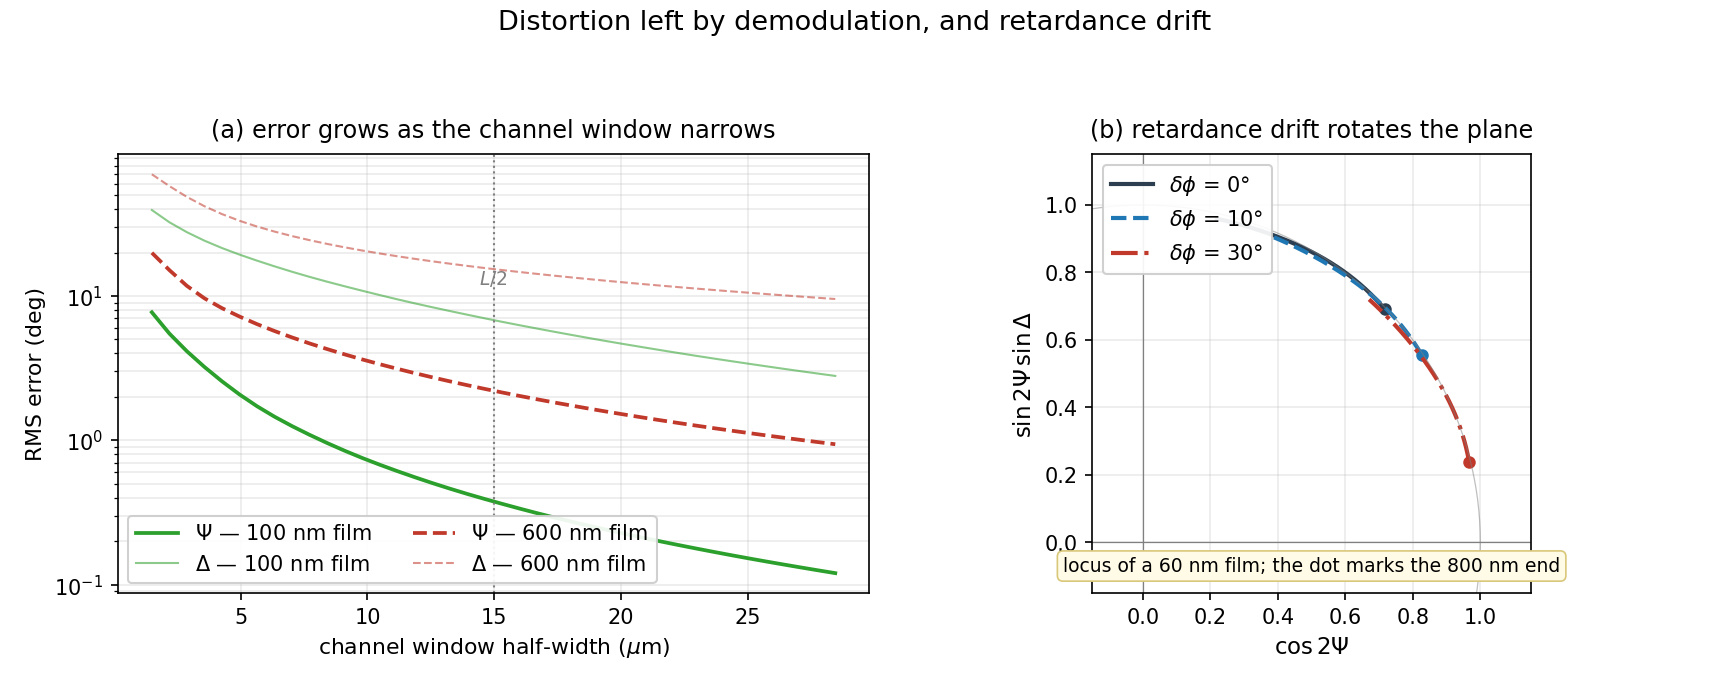
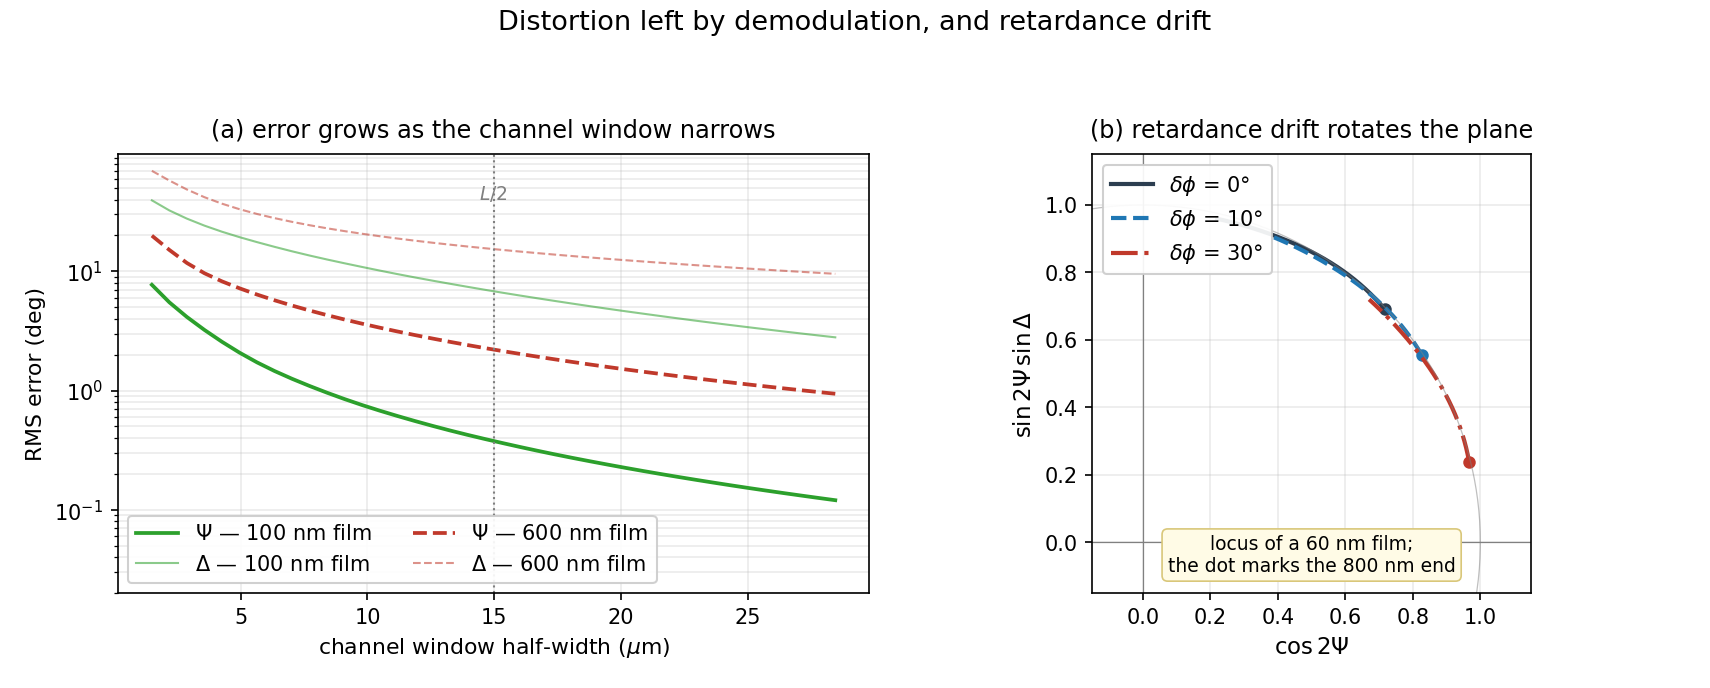
fix(post): ellipsometer-channeled-spectroscopic — 그림 다시 생성(범례·라벨 겹침, 그림 속 번호·캡션 제거)
그림을 다시 그려야 고칠 수 있던 경미 항목을 고쳤다. 데이터와 계산은 바꾸지 않았다.

근거: _references/ellipsometer-channeled-spectroscopic/audit-20261015.md (B 경미), 목록 _references/_fig-queue-20261015.md

diff --git a/_code/ellipsometer-channeled-spectroscopic/generate_figures.py b/_code/ellipsometer-channeled-spectroscopic/generate_figures.py
@@ -288,11 +288,12 @@ def figure5(L):
         ax1.semilogy(HALF, np.maximum(res[d][:, 1], 1e-4), ls, color=c, lw=1.0,
                      alpha=0.55, label=L["f5_del"].format(d))
     ax1.axvline(opd(T_RET) / 2, color="gray", lw=1.0, ls=":")
-    ax1.text(opd(T_RET) / 2, 12, L["f5_halfL"], fontsize=9.0, ha="center",
+    ax1.text(opd(T_RET) / 2, 40, L["f5_halfL"], fontsize=9.0, ha="center",
              color="gray", **L["font"])
     ax1.set_xlabel(L["f5_x"], fontsize=10.5, **L["font"])
     ax1.set_ylabel(L["f5_y"], fontsize=10.5, **L["font"])
     ax1.set_title(L["f5a"], fontsize=11.5, pad=8, **L["font"])
+    ax1.set_ylim(0.02, None)   # 범례가 들어갈 아래쪽 빈 칸을 둔다
     ax1.legend(fontsize=8.2, prop=L["legend"], loc="lower left", ncol=2,
                framealpha=0.92)
     ax1.grid(alpha=0.25, which="both")
@@ -369,7 +370,7 @@ LABELS = {
         "f4_c4": "지연자 4장\n뮬러 16요소",
         "f4_nch": "채널 {}",
         "f4_total": "분광기 전체 {:.0f} 점",
-        "f4_note": "400~1035 nm, 분해능 1.01 nm인 분광기 기준\n(Hagen 2022의 예)",
+        "f4_note": "400~1035 nm, 분해능 1.01 nm인 분광기 기준\n(하겐 2022의 예)",
         # 그림 5
         "fig5": "복조가 남기는 왜곡과 지연량 표류",
         "f5a": "(a) 채널을 좁게 자를수록 커지는 오차",
@@ -420,7 +421,7 @@ LABELS = {
         "f5_psi": "$\\Psi$ — {:.0f} nm film", "f5_del": "$\\Delta$ — {:.0f} nm film",
         "f5_halfL": "$L/2$",
         "f5_drift": "$\\delta\\phi$ = {:.0f}°",
-        "f5_arc": "locus of a 60 nm film; the dot marks the 800 nm end",
+        "f5_arc": "locus of a 60 nm film;\nthe dot marks the 800 nm end",
     },
 }
 
